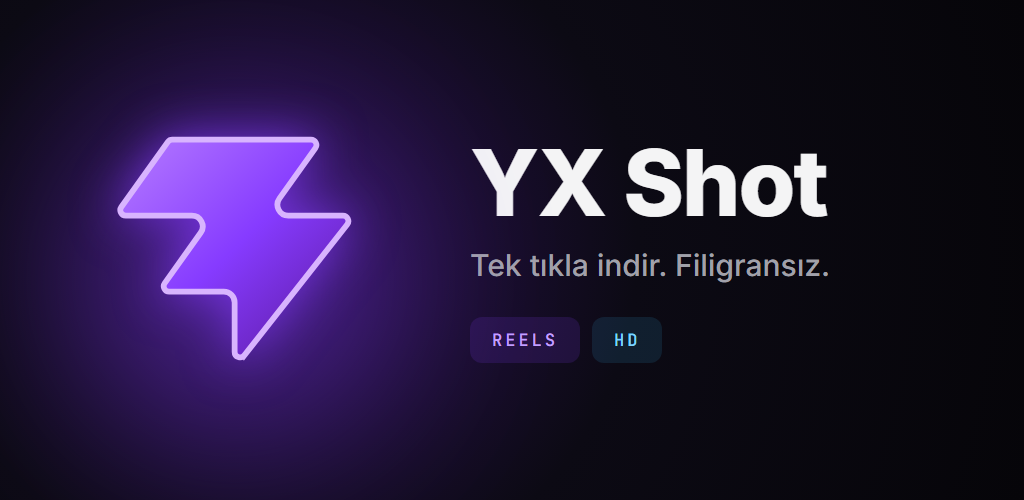
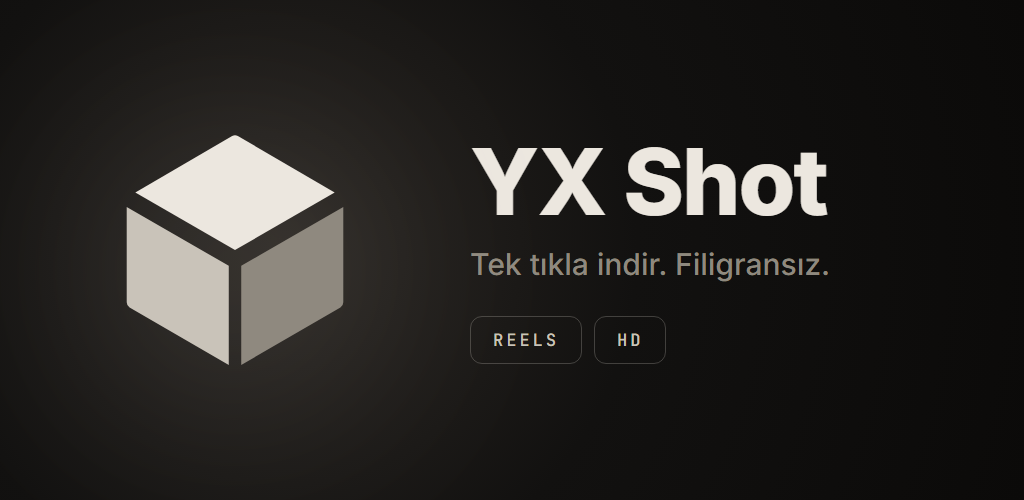
feat(yxshot): Use the Yunovax cube mark instead of the lightning bolt
- Header, link input and the main download button use the cube
- Purple accents swapped for site ivory tones; banner regenerated

diff --git a/src/components/yxshot/LightningDownloadButton.jsx b/src/components/yxshot/LightningDownloadButton.jsx
@@ -8,9 +8,12 @@ import { parseInstagramUrl, ERROR_MESSAGES } from '../../lib/constants';
 import { extractMedia } from '../../services/videoExtractor';
 import { generateFileName } from '../../lib/utils';
 
-// Exact SVG path of the Yunovax lightning bolt from /favicon.svg
-const LIGHTNING_PATH =
-  "M25.946 44.938c-.664.845-2.021.375-2.021-.698V33.937a2.26 2.26 0 0 0-2.262-2.262H10.287c-.92 0-1.456-1.04-.92-1.788l7.48-10.471c1.07-1.497 0-3.578-1.842-3.578H1.237c-.92 0-1.456-1.04-.92-1.788L10.013.474c.214-.297.556-.474.92-.474h28.894c.92 0 1.456 1.04.92 1.788l-7.48 10.471c-1.07 1.498 0 3.579 1.842 3.579h11.377c.943 0 1.473 1.088.89 1.83L25.947 44.94z";
+// Yunovax cube mark (same paths as src/components/Logo.jsx)
+const CUBE = {
+  top: 'M31.4 9.2a1.3 1.3 0 0 1 1.2 0L52.8 21 32 33 11.2 21z',
+  left: 'M9.4 24 30.7 36.3V57L10 45a1.3 1.3 0 0 1-.6-1.1z',
+  right: 'M54.6 24 33.3 36.3V57L54 45a1.3 1.3 0 0 0 .6-1.1z',
+};
 
 export default function LightningDownloadButton() {
   const {
@@ -93,7 +96,7 @@ export default function LightningDownloadButton() {
               particleCount: 50,
               spread: 60,
               origin: { y: 0.7 },
-              colors: ['#863bff', '#47bfff', '#ede6ff', '#ffffff'],
+              colors: ['#ece7df', '#c9c3b9', '#8f897f', '#ffffff'],
             });
           } catch (e) {}
 
@@ -206,12 +209,12 @@ export default function LightningDownloadButton() {
         <div
           className={`absolute inset-0 -m-12 rounded-full transition-opacity duration-700 pointer-events-none ${
             isLoading
-              ? 'opacity-80 bg-gradient-to-tr from-purple-600/30 via-violet-500/20 to-cyan-500/20 blur-3xl scale-125 animate-pulse'
+              ? 'opacity-70 bg-stone-200/15 blur-3xl scale-125 animate-pulse'
               : isSuccess
               ? 'opacity-80 bg-gradient-to-tr from-emerald-500/30 via-teal-500/20 to-cyan-500/20 blur-3xl scale-125'
               : isHovered
-              ? 'opacity-60 bg-gradient-to-tr from-purple-600/25 via-violet-500/15 to-transparent blur-3xl scale-110'
-              : 'opacity-20 bg-purple-600/15 blur-2xl'
+              ? 'opacity-60 bg-stone-200/10 blur-3xl scale-110'
+              : 'opacity-20 bg-stone-200/10 blur-2xl'
           }`}
         />
 
@@ -224,130 +227,35 @@ export default function LightningDownloadButton() {
           whileHover={{ scale: 1.04 }}
           whileTap={{ scale: 0.94 }}
           transition={{ type: 'spring', stiffness: 400, damping: 25 }}
-          className="relative group p-4 cursor-pointer focus:outline-none focus-visible:ring-2 focus-visible:ring-purple-400 rounded-3xl"
+          className="relative group p-4 cursor-pointer focus:outline-none focus-visible:ring-2 focus-visible:ring-stone-300 rounded-3xl"
           aria-label="Tek tıkla panodan video indir"
           title="Tıkla ve panodaki videoyu hemen indir"
         >
-          {/* Main SVG with Lightning Logo and Contoured Border Lines */}
+          {/* Yunovax cube mark */}
           <svg
-            viewBox="-10 -10 68 66"
-            className="w-48 h-48 sm:w-56 sm:h-56 md:w-64 md:h-64 drop-shadow-[0_10px_25px_rgba(0,0,0,0.6)] overflow-visible transition-transform duration-300"
+            viewBox="2 2 60 62"
+            className="w-44 h-44 sm:w-52 sm:h-52 md:w-60 md:h-60 drop-shadow-[0_10px_25px_rgba(0,0,0,0.6)] overflow-visible"
           >
-            <defs>
-              {/* Gradients */}
-              <linearGradient id="lightningGradient" x1="0%" y1="0%" x2="100%" y2="100%">
-                <stop offset="0%" stopColor="#9d4edd" />
-                <stop offset="50%" stopColor="#863bff" />
-                <stop offset="100%" stopColor="#5a189a" />
-              </linearGradient>
+            <motion.g
+              animate={{ y: isLoading ? [0, -1.5, 0] : 0 }}
+              transition={{ repeat: isLoading ? Infinity : 0, duration: 1, ease: 'easeInOut' }}
+            >
+              <path d={CUBE.top} fill={isSuccess ? '#a7f3d0' : '#ece7df'} fillOpacity={isHovered || isLoading ? 1 : 0.92} className="transition-all duration-300" />
+              <path d={CUBE.left} fill={isSuccess ? '#34d399' : '#c9c3b9'} fillOpacity={isHovered || isLoading ? 1 : 0.92} className="transition-all duration-300" />
+              <path d={CUBE.right} fill={isSuccess ? '#059669' : '#8f897f'} fillOpacity={isHovered || isLoading ? 1 : 0.92} className="transition-all duration-300" />
+            </motion.g>
 
-              <linearGradient id="electricStroke" x1="0%" y1="0%" x2="100%" y2="100%">
-                <stop offset="0%" stopColor="#d8b4fe" />
-                <stop offset="50%" stopColor="#863bff" />
-                <stop offset="100%" stopColor="#38bdf8" />
-              </linearGradient>
-
-              <linearGradient id="successGradient" x1="0%" y1="0%" x2="100%" y2="100%">
-                <stop offset="0%" stopColor="#34d399" />
-                <stop offset="100%" stopColor="#059669" />
-              </linearGradient>
-
-              {/* Glow Filter */}
-              <filter id="lightningGlow" x="-20%" y="-20%" width="140%" height="140%">
-                <feGaussianBlur stdDeviation="2.5" result="blur" />
-                <feComposite in="SourceGraphic" in2="blur" operator="over" />
-              </filter>
-            </defs>
-
-            {/* Outermost Pulsing Contour Line (Dashed electric border) */}
-            <motion.path
-              d={LIGHTNING_PATH}
-              fill="none"
-              stroke={isSuccess ? '#34d399' : '#863bff'}
-              strokeWidth="0.75"
-              strokeDasharray="4 3"
-              transform="scale(1.28) translate(-5.5, -5)"
-              animate={{
-                rotate: [0, 0],
-                strokeOpacity: isLoading ? [0.3, 0.9, 0.3] : isHovered ? 0.7 : 0.25,
-              }}
-              transition={{ repeat: Infinity, duration: 2, ease: 'easeInOut' }}
-            />
-
-            {/* Middle Contour Border Line (Exact offset lightning shape border) */}
-            <motion.path
-              d={LIGHTNING_PATH}
-              fill="none"
-              stroke={isSuccess ? '#34d399' : 'url(#electricStroke)'}
-              strokeWidth="1.2"
-              transform="scale(1.14) translate(-2.7, -2.5)"
-              animate={{
-                strokeOpacity: isLoading ? [0.4, 1, 0.4] : isHovered ? 0.9 : 0.5,
-              }}
-              transition={{ repeat: Infinity, duration: 1.5, ease: 'easeInOut' }}
-              filter="url(#lightningGlow)"
-            />
-
-            {/* Close-in Inner Contour Line */}
-            <path
-              d={LIGHTNING_PATH}
-              fill="none"
-              stroke={isSuccess ? '#a7f3d0' : '#ffffff'}
-              strokeWidth="0.8"
-              strokeOpacity={isHovered ? '0.85' : '0.4'}
-              transform="scale(1.05) translate(-1, -0.9)"
-            />
-
-            {/* Core Yunovax Lightning Bolt Body */}
-            <path
-              d={LIGHTNING_PATH}
-              fill={isSuccess ? 'url(#successGradient)' : 'url(#lightningGradient)'}
-              stroke="#ffffff"
-              strokeWidth="0.7"
-              strokeOpacity={isHovered ? '0.9' : '0.6'}
-              className="transition-all duration-300"
-            />
-
-            {/* Subtle Inner Highlight Spine */}
-            <path
-              d="M13 2H36L30 11H40L25 38V29H13L19 20H8L13 2Z"
-              fill="#ffffff"
-              fillOpacity={isHovered ? 0.22 : 0.12}
-              className="pointer-events-none"
-            />
-
-            {/* Center Status Icon Overlay (Loader / Check / Download) */}
             {isLoading ? (
-              <g transform="translate(14, 13)">
+              <g transform="translate(22, 30)">
                 <circle cx="10" cy="10" r="12" fill="#09090b" fillOpacity="0.85" />
-                <path
-                  d="M10 2 A8 8 0 0 1 18 10"
-                  fill="none"
-                  stroke="#ffffff"
-                  strokeWidth="2"
-                  strokeLinecap="round"
-                >
-                  <animateTransform
-                    attributeName="transform"
-                    type="rotate"
-                    from="0 10 10"
-                    to="360 10 10"
-                    dur="0.8s"
-                    repeatCount="indefinite"
-                  />
+                <path d="M10 2 A8 8 0 0 1 18 10" fill="none" stroke="#ffffff" strokeWidth="2" strokeLinecap="round">
+                  <animateTransform attributeName="transform" type="rotate" from="0 10 10" to="360 10 10" dur="0.8s" repeatCount="indefinite" />
                 </path>
               </g>
             ) : isSuccess ? (
-              <g transform="translate(14, 13)">
+              <g transform="translate(22, 30)">
                 <circle cx="10" cy="10" r="12" fill="#059669" />
-                <path
-                  d="M6 10 L9 13 L15 7"
-                  fill="none"
-                  stroke="#ffffff"
-                  strokeWidth="2.2"
-                  strokeLinecap="round"
-                  strokeLinejoin="round"
-                />
+                <path d="M6 10 L9 13 L15 7" fill="none" stroke="#ffffff" strokeWidth="2.2" strokeLinecap="round" strokeLinejoin="round" />
               </g>
             ) : null}
           </svg>
@@ -358,7 +266,7 @@ export default function LightningDownloadButton() {
       <div className="mt-4 text-center flex flex-col items-center gap-1.5">
         <div className="flex items-center gap-2">
           {isLoading ? (
-            <Loader2 className="w-4 h-4 animate-spin text-purple-400" />
+            <Loader2 className="w-4 h-4 animate-spin text-stone-300" />
           ) : isSuccess ? (
             <Check className="w-4 h-4 text-emerald-400" />
           ) : (
@@ -377,7 +285,7 @@ export default function LightningDownloadButton() {
         {isLoading && downloadProgress > 0 && (
           <div className="w-48 bg-zinc-800 rounded-full h-1.5 mt-2 overflow-hidden">
             <div
-              className="bg-purple-500 h-full transition-all duration-300 rounded-full"
+              className="bg-stone-300 h-full transition-all duration-300 rounded-full"
               style={{ width: `${downloadProgress}%` }}
             />
           </div>

diff --git a/src/components/yxshot/LinkInput.jsx b/src/components/yxshot/LinkInput.jsx
@@ -2,6 +2,7 @@ import React, { useState, useEffect, useTransition } from 'react';
 import { Clipboard, ArrowRight, Loader2, Sparkles, X, CheckCircle2, AlertCircle } from 'lucide-react';
 import { motion, AnimatePresence } from 'framer-motion';
 import { toast } from 'sonner';
+import Logo from '../Logo';
 import { useYxShotStore } from '../../store/useYxShotStore';
 import { parseInstagramUrl, ERROR_MESSAGES } from '../../lib/constants';
 import { extractMedia } from '../../services/videoExtractor';
@@ -120,7 +121,7 @@ export default function LinkInput() {
         <div className="relative flex items-center p-1.5 rounded-xl bg-zinc-900 border border-zinc-800 focus-within:border-zinc-500 focus-within:ring-1 focus-within:ring-zinc-500 shadow-sm transition-colors">
           
           <div className="pl-3 pr-2 flex items-center justify-center">
-            <img src="/yxshot-logo.svg" alt="Yunovax" className="w-5 h-5 object-contain" />
+            <Logo className="w-5 h-5" />
           </div>
 
           <input

diff --git a/src/components/yxshot/Header.jsx b/src/components/yxshot/Header.jsx
@@ -1,6 +1,7 @@
 import React, { useState } from 'react';
 import { Info, ArrowLeft, ShieldCheck, Zap } from 'lucide-react';
 import { motion, AnimatePresence } from 'framer-motion';
+import Logo from '../Logo';
 
 export default function Header({ onBackToPortfolio }) {
   const [isInfoOpen, setIsInfoOpen] = useState(false);
@@ -22,7 +23,7 @@ export default function Header({ onBackToPortfolio }) {
 
           <div className="flex items-center gap-2.5">
             <div className="w-8 h-8 rounded-lg bg-zinc-900 border border-zinc-800 flex items-center justify-center p-1.5">
-              <img src="/yxshot-logo.svg" alt="Logo" className="w-full h-full object-contain" />
+              <Logo className="w-full h-full" />
             </div>
             <div className="flex items-center gap-2">
               <span className="font-bold text-base tracking-tight text-white">

diff --git a/src/components/yxshot/BottomNav.jsx b/src/components/yxshot/BottomNav.jsx
@@ -42,7 +42,7 @@ export default function BottomNav() {
               <div className="relative flex items-center">
                 <Icon className={`w-4 h-4 ${isActive ? 'scale-110 text-white' : 'text-zinc-400'}`} />
                 {tab.badge && (
-                  <span className="absolute -top-2 -right-3 px-1.5 py-0.2 bg-purple-500 text-white rounded-full text-xs font-mono font-bold">
+                  <span className="absolute -top-2 -right-3 px-1.5 py-0.2 bg-stone-300 text-zinc-900 rounded-full text-xs font-mono font-bold">
                     {tab.badge}
                   </span>
                 )}

diff --git a/src/components/yxshot/FAQSection.jsx b/src/components/yxshot/FAQSection.jsx
@@ -22,7 +22,7 @@ const FAQS = [
       'Tüm Reels, Video, Gönderi (/p/) ve IGTV bağlantılarını destekler. Bağlantıyı kopyalayıp kutucuğa yapıştırmanız yeterlidir.',
   },
   {
-    icon: <Smartphone className="w-4 h-4 text-purple-400" />,
+    icon: <Smartphone className="w-4 h-4 text-stone-300" />,
     question: 'Gizli hesaplardaki videolar indirilebilir mi?',
     answer:
       'Gizlilik politikaları gereği yalnızca herkese açık (Public) profillerdeki Reels ve video içerikleri indirilebilir.',
